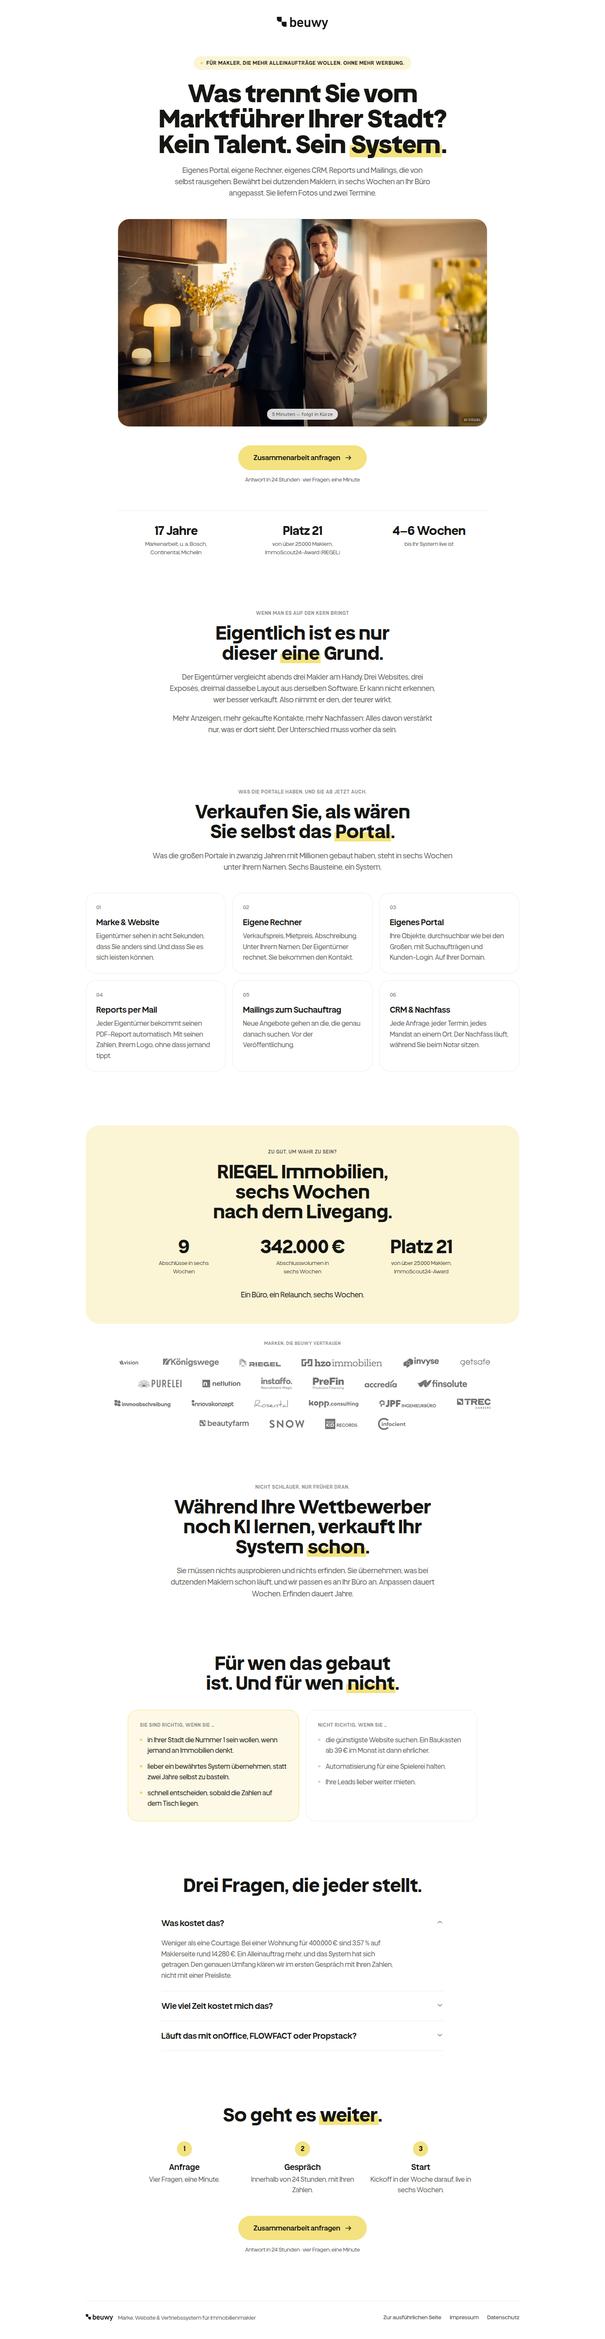
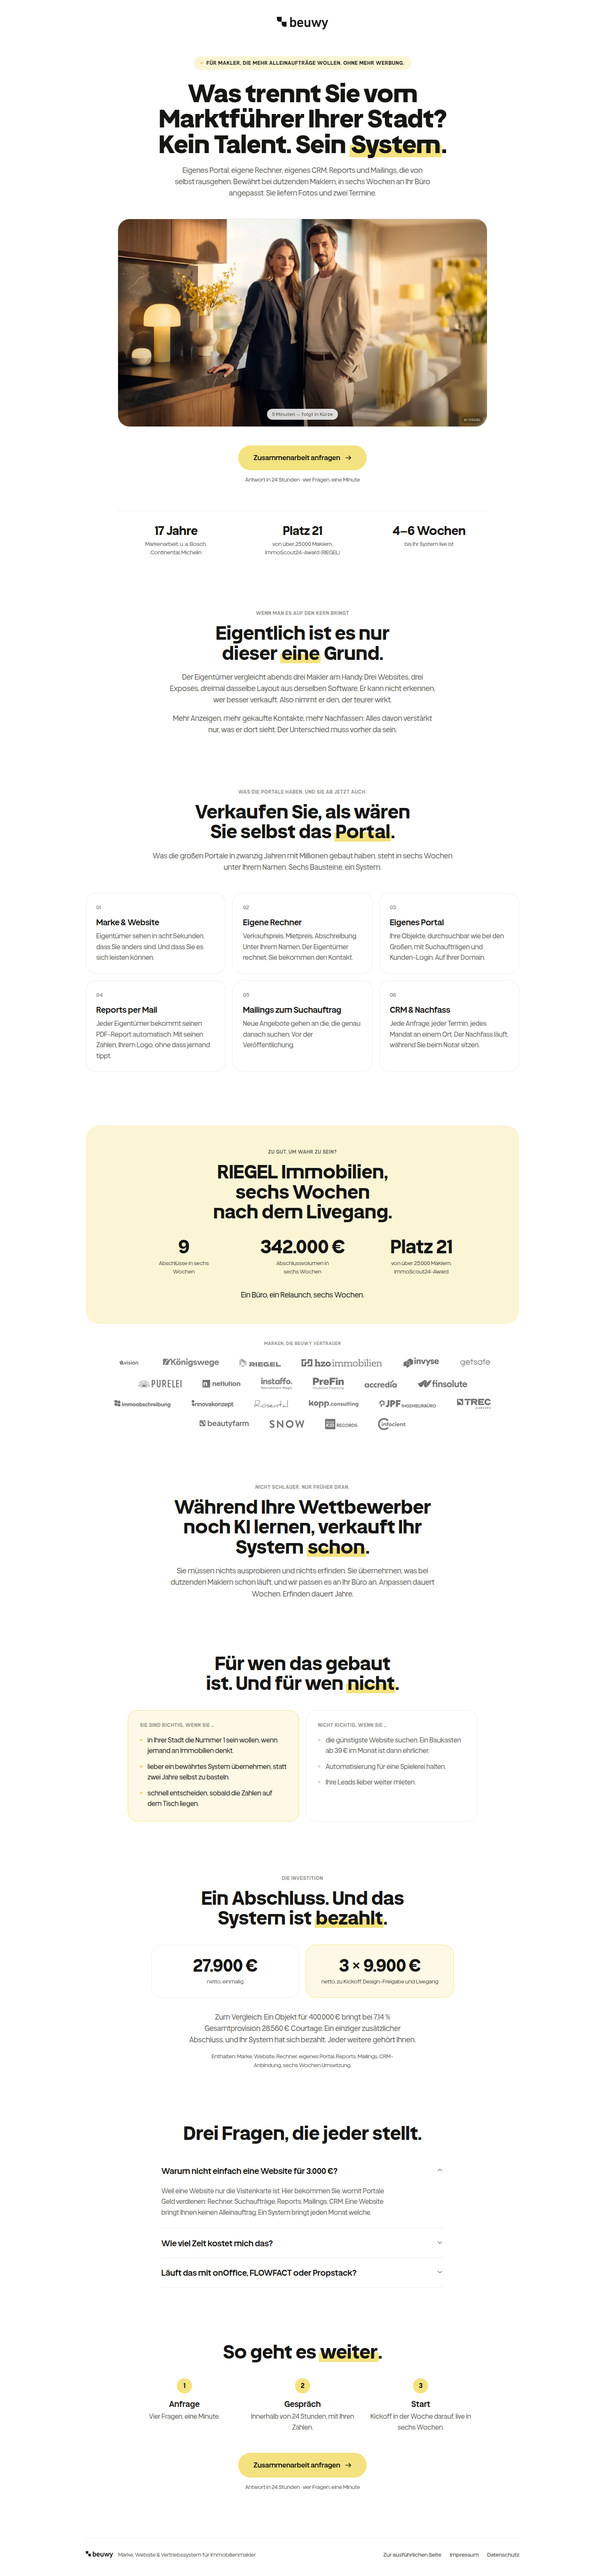
Preis auf /vsl: 27.900 € einmalig oder 3 × 9.900 €, Courtage-Anker
Investitionsblock zwischen Qualifizierung und Einwänden: Einmalpreis
netto, Ratenpreis in drei Schritten (Kickoff, Design-Freigabe, Livegang),
Vergleichsrechnung 400.000 € × 7,14 % = 28.560 € Courtage, Enthalten-
Zeile. Erster Einwand heißt jetzt „Warum nicht einfach eine Website für
3.000 €?". VSL-Skript: Investitionsabsatz mit denselben Zahlen. Alle
Texte als Studio-Keys mk.vsl.front_preis_*.

Gates: tsc 0, Build 125/125, VERIFY: OK, Scanner 0, r14-vsl-preis.png.

Claude-Session: https://claude.ai/code/session_01U96pE2C94W2BPSpcCZ3Srn

diff --git a/src/lib/texte/vsl.ts b/src/lib/texte/vsl.ts
@@ -76,11 +76,22 @@ export const VSL_FRONT_DEFAULTS: Record<string, string> = {
   "mk.vsl.front_wen_nein_2": "Automatisierung für eine Spielerei halten.",
   "mk.vsl.front_wen_nein_3": "Ihre Leads lieber weiter mieten.",
 
+  /* Investition */
+  "mk.vsl.front_preis_eyebrow": "Die Investition",
+  "mk.vsl.front_preis_titel": "Ein Abschluss. Und das System ist *bezahlt*.",
+  "mk.vsl.front_preis_einmal": "27.900 €",
+  "mk.vsl.front_preis_einmal_label": "netto, einmalig",
+  "mk.vsl.front_preis_raten": "3 × 9.900 €",
+  "mk.vsl.front_preis_raten_label": "netto, zu Kickoff, Design-Freigabe und Livegang",
+  "mk.vsl.front_preis_anker":
+    "Zum Vergleich: Ein Objekt für 400.000 € bringt bei 7,14 % Gesamtprovision 28.560 € Courtage. Ein einziger zusätzlicher Abschluss, und Ihr System hat sich bezahlt. Jeder weitere gehört Ihnen.",
+  "mk.vsl.front_preis_enthalten": "Enthalten: Marke, Website, Rechner, eigenes Portal, Reports, Mailings, CRM-Anbindung, sechs Wochen Umsetzung.",
+
   /* Einwände */
   "mk.vsl.front_einwand_titel": "Drei Fragen, die jeder stellt.",
-  "mk.vsl.front_einwand_1_frage": "Was kostet das?",
+  "mk.vsl.front_einwand_1_frage": "Warum nicht einfach eine Website für 3.000 €?",
   "mk.vsl.front_einwand_1_antwort":
-    "Weniger als eine Courtage. Bei einer Wohnung für 400.000 € sind 3,57 % auf Maklerseite rund 14.280 €. Ein Alleinauftrag mehr, und das System hat sich getragen. Den genauen Umfang klären wir im ersten Gespräch mit Ihren Zahlen, nicht mit einer Preisliste.",
+    "Weil eine Website nur die Visitenkarte ist. Hier bekommen Sie, womit Portale Geld verdienen: Rechner, Suchaufträge, Reports, Mailings, CRM. Eine Website bringt Ihnen keinen Alleinauftrag. Ein System bringt jeden Monat welche.",
   "mk.vsl.front_einwand_2_frage": "Wie viel Zeit kostet mich das?",
   "mk.vsl.front_einwand_2_antwort":
     "Zwei Termine und Ihre Fotos. Texte, Struktur, Technik und Anbindung kommen von uns. Freigaben dauern Minuten, keine Meetings.",
@@ -154,6 +165,14 @@ export const VSL_FRONT_LABELS: Record<string, string> = {
   "mk.vsl.front_wen_nein_1": `${L}Für wen · Nein 1`,
   "mk.vsl.front_wen_nein_2": `${L}Für wen · Nein 2`,
   "mk.vsl.front_wen_nein_3": `${L}Für wen · Nein 3`,
+  "mk.vsl.front_preis_eyebrow": `${L}Investition · Eyebrow`,
+  "mk.vsl.front_preis_titel": `${L}Investition · Titel`,
+  "mk.vsl.front_preis_einmal": `${L}Investition · Einmalpreis (Zahl)`,
+  "mk.vsl.front_preis_einmal_label": `${L}Investition · Zeile unter dem Einmalpreis`,
+  "mk.vsl.front_preis_raten": `${L}Investition · Ratenpreis (Zahl)`,
+  "mk.vsl.front_preis_raten_label": `${L}Investition · Zeile unter dem Ratenpreis`,
+  "mk.vsl.front_preis_anker": `${L}Investition · Vergleichsrechnung (Courtage)`,
+  "mk.vsl.front_preis_enthalten": `${L}Investition · Was enthalten ist`,
   "mk.vsl.front_einwand_titel": `${L}Einwände · Titel`,
   "mk.vsl.front_einwand_1_frage": `${L}Einwand 1 · Frage`,
   "mk.vsl.front_einwand_1_antwort": `${L}Einwand 1 · Antwort`,

diff --git a/src/app/vsl/page.tsx b/src/app/vsl/page.tsx
@@ -190,6 +190,26 @@ export default async function VslPage() {
         </section>
       </Reveal>
 
+      {/* 6b · Investition: Preis, drei Raten, Courtage-Anker */}
+      <Reveal>
+        <section className="mx-auto mt-24 max-w-[880px] px-6 text-center lg:mt-32">
+          <p className="t-label">{t("preis_eyebrow")}</p>
+          <h2 className="t-h2 mt-4">{rich(t("preis_titel"))}</h2>
+          <div className="mx-auto mt-10 grid max-w-[720px] grid-cols-1 gap-4 sm:grid-cols-2">
+            <div className="rounded-[24px] border border-line-subtle p-7">
+              <p className="font-display text-[40px] font-bold leading-none tracking-[-0.02em] text-ink-cream tnum">{t("preis_einmal")}</p>
+              <p className="t-small mt-2">{t("preis_einmal_label")}</p>
+            </div>
+            <div className="rounded-[24px] border border-akzent bg-akzent-wash/60 p-7">
+              <p className="font-display text-[40px] font-bold leading-none tracking-[-0.02em] text-ink-cream tnum">{t("preis_raten")}</p>
+              <p className="t-small mt-2 !text-ink-cream/80">{t("preis_raten_label")}</p>
+            </div>
+          </div>
+          <p className="t-body-lg mx-auto mt-8 max-w-[56ch]">{t("preis_anker")}</p>
+          <p className="t-small mx-auto mt-4 max-w-[60ch]">{t("preis_enthalten")}</p>
+        </section>
+      </Reveal>
+
       {/* 7 · Drei Einwände */}
       <Reveal>
         <section className="mx-auto mt-24 max-w-[720px] px-6 lg:mt-32">

diff --git a/docs/branding/VSL-SKRIPT.md b/docs/branding/VSL-SKRIPT.md
@@ -112,9 +112,11 @@ eine Minute. Innerhalb von 24 Stunden sprechen wir, mit Ihren Zahlen,
 nicht mit einer Preisliste. Danach liefern Sie Fotos und zwei Termine.
 Sechs Wochen später ist Ihr System live.
 
-Was es kostet? Weniger als eine Courtage. Bei einer Wohnung für 400.000
-Euro sind 3,57 Prozent auf Maklerseite rund 14.000 Euro. Ein
-Alleinauftrag mehr, und das System hat sich getragen.
+Was es kostet? 27.900 Euro netto, oder drei Raten zu 9.900 Euro: bei
+Kickoff, bei der Design-Freigabe und beim Livegang. Zum Vergleich: Ein
+einziges Objekt für 400.000 Euro bringt Ihnen bei 7,14 Prozent
+Gesamtprovision 28.560 Euro Courtage. Ein Abschluss, und das System ist
+bezahlt. Jeder weitere gehört Ihnen.
 
 **04:45 Aufforderung**
 
@@ -127,5 +129,5 @@ ON: Knopf „Zusammenarbeit anfragen", darunter „Antwort in 24 Stunden".
 ---
 
 Wortzahl: rund 680. Prüfen vor dem Dreh: „dutzende Makler" (welche),
-Riegel-Zahlen und Zeitbezug, Courtage-Rechenbeispiel (3,57 % ist ein
-üblicher Satz, regional verschieden).
+Riegel-Zahlen und Zeitbezug, Courtage-Rechenbeispiel (7,14 % gesamt ist
+üblich, regional verschieden), Preis 27.900 € netto bzw. 3 × 9.900 €.

diff --git a/docs/redesign/gates/R3.md b/docs/redesign/gates/R3.md
@@ -179,3 +179,8 @@
 - [x] R13-G3 VSL-Skript (docs/branding/VSL-SKRIPT.md, ca. 5 Minuten, Sie-Form) mit derselben Kette wie die Seite. EVIDENZ: Datei
 - [x] R13-G4 tsc 0, Build 125/125, VERIFY: OK, Scanner 0. EVIDENZ: 18.09
 - [ ] R13-OFFEN (Alex): „dutzende Makler" belegen, Riegel-Zeitbezug, Courtage-Satz 3,57 % regional prüfen; DeepSeeks Stand liegt nicht im Repo (kein Branch) — falls lokal, bitte pushen
+
+## R14 — Preis auf /vsl (18.09)
+
+- [x] R14-G1 Investitionsblock zwischen „Für wen" und Einwänden: 27.900 € netto einmalig oder 3 × 9.900 € netto (Kickoff, Design-Freigabe, Livegang), Courtage-Anker 400.000 € × 7,14 % = 28.560 €, Enthalten-Zeile. Einwand 1 jetzt „Warum nicht einfach eine Website für 3.000 €?". VSL-Skript-Absatz „Investition" angepasst. Alle Texte Studio-Keys mk.vsl.front_preis_*. EVIDENZ: r14-vsl-preis.png
+- [x] R14-G2 tsc 0, Build 125/125, VERIFY: OK, Scanner 0 (frischer Container, node_modules neu). EVIDENZ: 18.09
